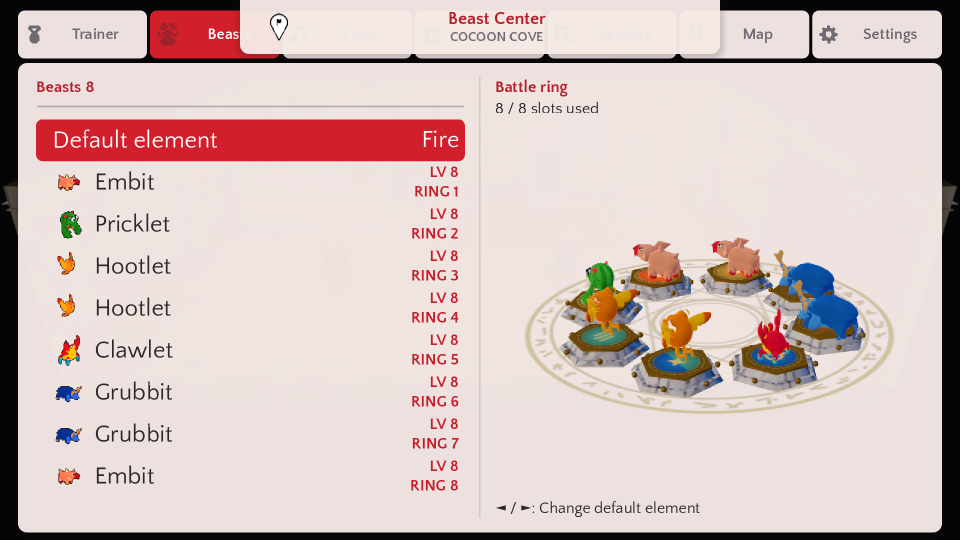
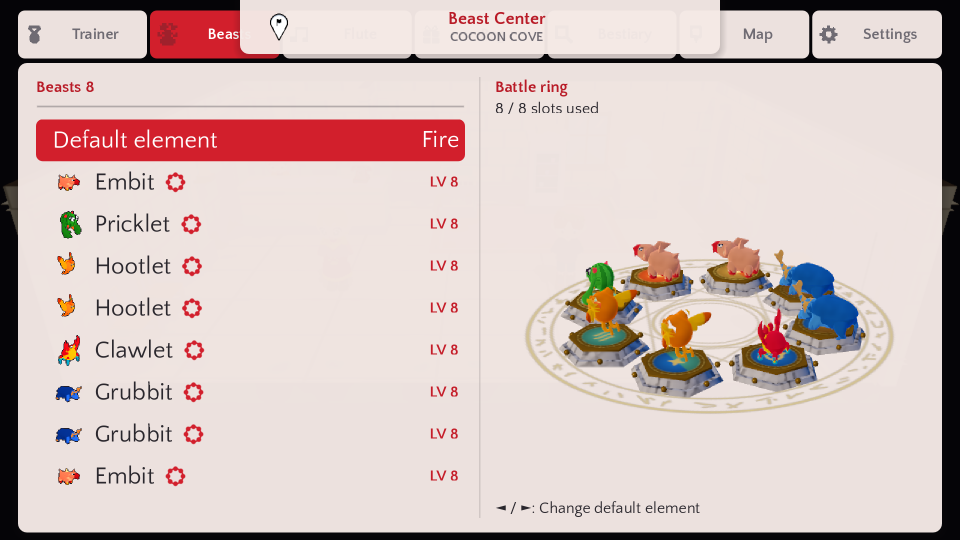
bugfixes added fishing animations

diff --git a/docs/visual_overhaul/006-scenery.md b/docs/visual_overhaul/006-scenery.md
@@ -1,0 +1,95 @@
+# 006 — batched scenery and visibility
+
+Engineering experiments completed 13 November 2026. Keep the existing **8×8 MultiMeshes**.
+No experimental occlusion, distance cutoff, rechunking or merged asset is enabled in gameplay.
+The adopted corrections preserve source LOD data when recentering and cover lily-pad shader displacement.
+No artwork, collision, movement, building fading, battle sightline hiding or lighting was changed by this step.
+
+## Adopted corrections
+
+`VoxelAssets._recentered()` preserves LOD thresholds/indices, surface names and the existing base channels
+and materials. The dedicated check covers 46 meshes / 134 LOD levels, including synthetic translated
+meshes with both renderer index widths. **The sampled shipped meshes are already centered**: affected
+mesh count is zero on Coastal Path, Cocoon Cove and Rue Royale. The native/phone LOD controls are A/A;
+this is defensive correctness, not a measured performance gain.
+
+Lily-pad swell reaches ±(1 + 0.45) × 0.045 = **0.06525 world units** after its shader cancels instance scale.
+The shared batch helper now forwards a **0.07-unit margin** to every pad chunk. Static batches keep their
+existing bounds. Pad controls have matching draws/primitives on Forward+, desktop Mobile, Compatibility,
+Web and actual phone. [Matched desktop views](../../build/shots/vo/006/compare_pads.png) show the same scene;
+water/pad animation phase varies. Local-model descriptions of a water-level change were not supported by
+the source: no water level or lighting was changed.
+
+## Experiment decisions
+
+All comparisons use control/candidate/control, fixed routes/settings and 240 samples per segment.
+Raw reports retain per-frame traces, p95/max, setting metadata, availability and bounds inventories.
+Timings below are medians; small changes within the control bracket do not establish a gain.
+
+| Experiment | Evidence and decision |
+|---|---|
+| 4×4 chunks | More submissions. Desktop Mobile Cove draws 233/272.5/233; phone 284/346/284. Reject. |
+| 16×16 chunks | Phone Coastal draws 382.5/271.5/382.5, GPU 30.943/31.477/30.373 ms; Cove 30.473/31.069/29.365 ms. No frame improvement; Web render CPU also increased. Keep 8×8. |
+| Engine occlusion | Conservative opaque source triangles shrunk 2%, actual 3D SubViewport enabled; faded/hidden parents disable their occluders and the hero ignores them. Phone Rue draws 266/263/266, render CPU 0.887/1.622/0.928 ms, GPU 30.061/30.097/29.179 ms. Desktop Forward+/Mobile/Compatibility also show small savings with CPU overhead. Reject. |
+| Decoration ranges | Only shadowless grass/flowers, nearest full-bounds hysteresis show below 22/hide above 26 units. Phone Coastal tick CPU 0.973/1.750/0.999 ms, unchanged draws; Cove GPU change lies within control drift. Reject this manual fallback. Engine-native alternatives were not exhaustively evaluated. |
+| Static Mesh Merger | 13 eligible Creole-house nodes, door kept separate; 32 surfaces → 11. Phone draws 50/26/50, GPU 3.819/3.834/4.401 ms. Position/UV/colour exact, but maximum normal error **0.241678** under nonuniform scale fails the geometry contract. Reject regardless of draw savings. |
+
+Merger source is pinned to `e0de5d302d12ec16161e43bb7afac2e79f0b5aeb`, with MIT license and
+reproduction fixture under `tools/experiments/006/StaticMeshMerger/` and `tools/debug/vo_mesh_merger.gd`.
+It is not an enabled editor plugin. Build cost was about 2.75 ms desktop / 22.256 ms phone; temporary
+source and result coexist during the fixture, so no production memory/load saving is claimed. No generated
+mesh collision was introduced; tile rules remain unchanged. Rejected candidates need no visual approval.
+
+## Platforms and accepted evidence
+
+Raw evidence is under `build/perf/vo/006/`, with native matched views in `build/shots/vo/006/`.
+Accepted native attempts: `mobile-lod-03`, `mobile-chunks4-01`, `mobile-pads-01`, `compat-pads-01`,
+`forward-pads-02`, `touch-pads-02`, `mobile-occlusion-03`, `compat-street-05`, `forward-street-05`,
+`mobile-distance-02`, `compat-distance-02`, `forward-distance-02`, `touch-distance-01`,
+`compat-merger-02`, `forward-merger-03`. Desktop Mobile is **desktop evidence**, not a phone proxy.
+Native 16×16 attempts lost focus and are excluded; complete phone/Web comparisons supply that evidence.
+Invalid/incomplete attempts remain on disk and must not be pooled with accepted traces.
+
+**Actual phone:** `build/perf/vo/006-suite/phone/`, razr 2024, Android Mobile renderer, Mid,
+1760×720, reported refresh 60 Hz, cap 60, VSync on. Three passes, **753.3 seconds**, zero reported
+problems/focus losses. Field medians ~33.3–33.7 ms (~30 fps); isolated fixture ~16.7 ms.
+Temperature samples peaked at 29.9°C; this does not establish sustained thermal headroom or 60 fps.
[1 lines of base64/hex data omitted]
+87 PNGs recovered to `build/shots/vo/006/phone-suite/`; raw private benchmark files are archived locally.
+Player package paths match before/after, cleanup succeeded and only temporary `com.rubycocoon.vo_perf`
+was uninstalled. Player saves/settings and lock settings were not changed.
+
+**Web:** `build/perf/vo/006/web_01/`, three validated passes, Compatibility, render size 1099×1080,
+browser viewport 890×875 CSS pixels. This is a narrow browser stress test, not landscape/1920-wide evidence.
+GPU queries are unavailable (zeros are not zero GPU cost). Console explicitly reports
+`Occlusion culling is disabled at build-time`: the requested true property is inert on this template.
+Web occlusion is **unsupported**, not a successful optimization test. The final console could not be
+re-read after the temporary browser tab closed; absence of post-report audio errors is not established.
+
+**Desktop field gate:** focused paced `field-02` has one 20.113 ms maximum, so that attempt misses the
+20 ms criterion. Frozen-pack `field-pack-01` runs VSync off, 240/240 focused samples on each of Cove,
+Rue and Cogsworth; maxima **3.864 / 3.486 / 3.278 ms** (720 total samples). It satisfies the unpaced
+render-headroom check, not a guarantee about presentation pacing, current concurrent artwork or phone fps.
+The pack is `build/web_perf_006_01/index.pck`; commands/logs/validation are retained alongside the report.
+
+## Bounds and verification limits
+
+Inventories cover 485/681/378 scenery batches and 1600/2426/1718 instances in Coastal/Cove/Rue.
+Their transformed-source union matches renderer AABBs; no static underbounds or >10% oversizing was found.
+Pad overlays show static versus swell bounds. The native Mobile occlusion-buffer capture is
+`build/shots/vo/006/occlusion-debug-02/pass_02/tidewater_occlusion_1_occluders_debug.png`;
+it shows the conservative building silhouettes. This short `verify=1` run is render-only evidence,
+not an accepted timing run (three samples per segment). Water already reserves 0.1 units; foliage has no vertex
+displacement, terrain holes are fragment-only. Existing dust/title-animation bounds were inspected in source.
+This is not an exhaustive swept animation audit of every effect. Renderer AABBs cannot be validated headless.
+Chunk LOD selection changes along with group culling, so primitive differences are not pure frustum savings.
+The occluder fixture covers initially built buildings on a short dense street; it is not a production dynamic
+occluder lifecycle implementation. No range system reaches battle props, edge seals, landmarks or interactables.
+Because ranges/merger/occlusion are rejected, production directed battle shots retain their existing behavior.
+
+Final current-checkout tests through `server.py`: **all 10 pass** (`scenery-lods`, the five scenery/merger
+smoke checks, `nature`, `walk`, `building-fade`, `maps-built`), 44 seconds. Earlier quick compilation/data
+checks also pass in nine seconds (`build/vo006-final-quick-resumed.json`). The local model supplied code indexing, a diff
+triage and first screenshot descriptions; all consequential claims were checked against source/numeric data.
+No combined optimization candidate survives: combined verification therefore covers the two correctness fixes.
+Further optimization remains measurement-driven; this step does not promise that every performance target is met.

diff --git a/README.md b/README.md
@@ -445,7 +445,7 @@ obstacles (driftwood, sand drifts, boulders, dust storms, ravines) still turn up
   - **The ring turns by itself** at the start of battle to a side with a standing middle beast (the preferred starting side if covered, otherwise the nearest; without a preference, the last facing), and when everyone on the facing side falls. Guided lessons keep their teaching formation and restricted choices. Fainted beasts on either trainer's ring remain lying on their pads; empty pads stay dim. Turning is shown by the actual ring and beasts moving.
   - **Action icons**: a round icon stands before the action's name on the chooser's bar (`scripts/battle/action_icons.gd`). An elemental attack's disc is its element's colour with the element's glyph (flame, drop, peaks, wind, ghost); a plain attack (and your weapons) is grey with claw marks; every action that isn't an attack is navy, with a glyph for what it does (Defend's shield, a heal's cross, chevrons up for a boost and down for a hex, Move's arrows, Items' bottle, the Flute's note, Watch's eye, Summon's star, Run's arrow). `--scene=action-icons --shot=...` shows the whole set.
   - **Weak and resistant targets**: while an attack is aimed, each target's bar shows a mark after its name: a red burst with "!" when it is weak to that attack (double damage), a slate shield when it resists it (an attack of its own element does three quarters). The top-centre bar says "Weak!" or "Resists" after the target's HP. Elemental bombs show the marks too; plain attacks, weapons and ghosts have none.
-  - **Targeting**: the chooser stays outlined and their bar names the target after the action, with a yellow arrow between them ("Bite ► Tadlet"; "► All" for a move that hits everyone). Each target is outlined too and gets its own white bar (name, level and HP) in its outline colour, tucked behind it the same way. A translucent yellow 3D arrow rises from behind the actor (so they stand in front of it) and arcs to the target. The top-centre bar says the action, the target with its HP, and what the move does. The 3D arrow is a slim, flat rectangular shaft with a long four-sided pyramid head, with translucent depth-tested faces; faint white chevrons on the stem point and scroll towards the target, while the head stays plain yellow in every gem. All-target moves draw one arrow to each target. ◄ ► aim; **tap a 3D beast once to aim, then again to confirm**; A also confirms. B returns to choosing the action. Move uses ▲ ▼ or a tap on a legal 3D pad (the pad gets a hull outline). Item and song targeting use the same arrows, outlines and target bars without a chooser bar. Guided battles retain their automatic target restrictions. (The outlined models are rendered a second time, alone, for their shapes only: `battle.gd` `front_texture`; `floating_hud.gd` draws the outlines from it and shows the 3D view through it over the bars' ends.)
+  - **Targeting**: the chooser stays outlined and their bar names the target after the action, with a yellow arrow between them ("Bite ► Tadlet"; "► All" for a move that hits everyone). Each target is outlined too and gets its own white bar (name, level and HP) in its outline colour, tucked behind it the same way. A translucent yellow 3D arrow rises from behind the actor (so they stand in front of it) and arcs to the target. The top-centre bar says the action, the target with its HP, and what the move does. The 3D arrow is a slim, flat rectangular shaft with a long four-sided pyramid head, with translucent depth-tested faces; white chevrons on the stem point and scroll towards the target, while the head stays plain yellow in every gem. All-target moves draw one arrow to each target. ◄ ► aim; **tap a 3D beast once to aim, then again to confirm**; A also confirms. B returns to choosing the action. Move uses ▲ ▼ or a tap on a legal 3D pad (the pad gets a hull outline). Item and song targeting use the same arrows, outlines and target bars without a chooser bar. Guided battles retain their automatic target restrictions. (The outlined models are rendered a second time, alone, for their shapes only: `battle.gd` `front_texture`; `floating_hud.gd` draws the outlines from it and shows the 3D view through it over the bars' ends.)
   - **While you choose your own action** (and aim it), every standing beast without a bar of its own shows its HP over its MP in a small square plate above its head ("HP 63" over "MP 31" on the left, each beside its gauge; the HP label turns yellow at a quarter of the beast's HP or less and red at a tenth or less), and each trainer (you, and a rival trainer) shows their shield points in the same kind of plate: a "SHIELD" label, then an orb per point. The plates use the top-centre bar's dark fill with no frame, fading out towards both sides, and a thin white line along the bottom that fades the same way. None of these show while a beast is choosing. **During actions** no bars or readouts appear at all: HP changes show only as damage numbers. Shield orbs appear beside a trainer only while targeted or for about a second after a hit, and bars keep clear of them. Battle messages and damage numbers retain their existing presentation.
   - **Touch**: the chooser's bar is drawn compact but taps as a full-height row (at least 80 logical units on touch, 56 on desktop); its left end (level and ◄) and right end (►) change the action and the middle confirms. Bars stay in the safe area and outside the d-pad and A/B clusters' enlarged exclusion zones: a bar that fits on neither side of its model rests nearby with a pointer to it. Keyboard, gamepad and direct taps share the command controller; taps cannot pass into world movement.
   - **Surroundings**: outdoor, fishing and arena battles sit inside one continuous textured surround, with a curved foot blended into the stage's own floor. Each of the 14 biome palettes has its own repeating mural, baked from the game's existing regional assets. Batched clusters of regional trees, shrubs and rocks frame all four perimeter corners and hide joins; desert clusters use boulders, fishing keeps trees on land and uses rock outcrops over water, and arenas use pillars and banners. Indoor battles retain their enclosed walls and ceiling, with tall corner columns, lower temple or tower props and colored practical lights concealing wall junctions. The mural uses mipmapped anisotropic filtering and scenery casts no shadows. There is no runtime artwork generation.

diff --git a/docs/visual_overhaul/runbook.md b/docs/visual_overhaul/runbook.md
@@ -264,12 +264,15 @@ Pixel diffs must be noise-only; a visible change stops for screenshot approval.
 ### 006 · P6: batched scenery
 **Execution checkpoints:** 006a (bounds, chunk sizing and preserved mesh LODs), 006b (engine occlusion),
 006c (decoration distance ranges), 006d (Static Mesh Merger and combined verification).
-Run in that order; parent 006 stays open until all four close. The loader's lost LODs were discovered during
+Record decisions in that order; independent experiments may collect evidence while another platform runs.
+Parent 006 stays open until all four close. The loader's missing LOD-copy path was discovered during
 006a. The sampled shipped assets already have centered origins and do not trigger that loader branch;
 the correction is defensive, not a measured speedup. The shader audit also found missing water-swell
 bounds on lily-pad batches. Finish matched evidence; require screenshot review only for visible changes.
 This split follows §5's clean-checkpoint rule; it does not waive any requirement below.
 **Approval:** numbers and screenshot review if visible. **Needs:** 008.
+**Result (13 November 2026):** [006 complete with explicit measurement limits](006-scenery.md).
+Keep 8×8; no experimental optimization adopted. LOD preservation and pad-bound correctness fixes retained.
 **Files:** the nature/scenery placement code in `scripts/world/` (find it with a grep for `MeshInstance3D.new()` in scenery code), `foliage.gdshader`.
 **Do:**
 - Per terrain chunk, draw repeated bushes, grass, flowers, rocks and small props as `MultiMeshInstance3D`, with per-instance colour or custom data for variation.
@@ -322,13 +325,15 @@ a `field-perf` run with no frame over 20 ms on desktop. Identify desktop Mobile-
 **Done when:** the `nature`, `walk`, `building-fade` and `maps-built` tests pass.
 
 ### 006a · P6a: bounds, chunks and scenery LOD preservation
-**Approval:** numbers and screenshots for the restored LODs. **Needs:** 008.
+**Approval:** numbers; screenshots if appearance changes. **Needs:** 008.
 **Do:** audit existing batch bounds against transformed source bounds; compare 4/8/16 chunk sizes with other
 settings fixed; preserve the source meshes' existing LOD thresholds and indices when recentering them.
 Keep collision, materials, per-instance transforms, building fades and terrain visibility unchanged.
 Cover the lily-pad shader's maximum 0.06525-unit world-space displacement after instance scaling.
-Compare original/restored/original LODs in matched Coastal Path, Cove and Rue Royale views on all three native
-renderers and the attached phone. Check base geometry/UV/normal/material identity and both index widths.
+Compare original/restored/original LODs in matched Coastal Path, Cove and Rue Royale views and the attached
+phone. If sampled assets do not enter the recenter branch, record that A/A result and exercise it synthetically;
+do not claim a renderer speedup. Check the pad-bound fix on all three native renderers and phone.
+Check base geometry/UV/normal/material identity and both index widths.
 **Evidence:** `build/perf/vo/006/`, `build/shots/vo/006/`, report `006a-scenery.md`.
 **Done when:** matched measurements and captures exist; quick, scenery-lods, vo-scenery, nature, walk,
 building-fade and maps-built pass, and any visible result is approved. Renderer bounds are unavailable headless.

diff --git a/docs/visual_overhaul/006a-scenery.md b/docs/visual_overhaul/006a-scenery.md
@@ -1,6 +1,7 @@
 # 006a — scenery bounds, chunk sizing and retained LODs
 
-Engineering checkpoint, 12 November 2026. **In progress**; parent 006 remains open.
+Engineering checkpoint, 12–13 November 2026. **Complete**; see the combined
+[006 report, decisions and limits](006-scenery.md) for final phone/Web evidence and verification.
 No chunks, distance cutoffs, engine occlusion setting or merged production assets have been adopted.
 
 ## Scope and corrections
@@ -30,7 +31,8 @@ maximum swell. The foliage shader does not displace vertices. Terrain dithering 
   no problems/focus losses, 30.9°C at each temperature sample. The player's package identity is preserved;
   temporary `com.rubycocoon.vo_perf` was uninstalled after recording.
 - `build/perf/vo/006/mobile-chunks4-01/`: accepted 8/4/8 comparison. The candidate increases draw and
-  render-CPU submissions, without consistent GPU benefit; keep 8×8 pending the other experiments.
+  render-CPU submissions, without consistent GPU benefit; keep 8×8. The complete phone/Web 16×16
+  comparisons likewise do not justify replacing the existing layout.
 - `build/perf/vo/006/mobile-pads-01/`, `compat-pads-01/`, `forward-pads-02/`: accepted pad-margin controls.
   Draws and primitives match; no material or geometry change. Desktop Mobile is desktop evidence.
 - Interrupted/superseded attempts retain their raw reports/logs and invalid markers. They are excluded from
@@ -39,7 +41,8 @@ maximum swell. The foliage shader does not displace vertices. Terrain dithering 
 
 The current bounds inventory compares each batch's rendered AABB with the union of its transformed mesh
 bounds: Coastal Path 485 batches / 1,600 instances; Cove 681 / 2,426; Rue Royale 378 / 1,718.
-No static underbounds or >10% oversized volumes were found. This is not an exhaustive animation/effect audit.
+No static underbounds or >10% oversizing were found (latest checks compare each axis).
+This is not an exhaustive animation/effect audit.
 Renderer bounds are unavailable headless; headless tests do not claim to check them.
 
 ## Reproduction and verification
@@ -50,9 +53,10 @@ experiments separate. Reports contain raw traces, effective settings and per-exp
 the Python reader validates traces/summaries, route and settings consistency, three controls and focus.
 Use isolated saves/preferences exactly as the runner supplies. See its command JSONs for accepted runs.
 
-Early checks through `server.py`: quick, nature, scenery-lods, vo-scenery, walk, building-fade and maps-built pass.
-Pad/occlusion/distance and isolated-merger headless smoke checks pass. Final checks and outstanding evidence
-are still required before closing this checkpoint or parent 006.
+Final checks through `server.py`: all ten focused checks pass in 44 seconds; quick's four checks pass
+in nine seconds. See `build/vo006-final-resumed.json` and `build/vo006-final-quick-resumed.json`.
+Matched native pad-margin controls cover all three renderers; affected recentered mesh count is zero,
+so repeating that A/A on every renderer cannot demonstrate an LOD gain. Synthetic checks exercise the branch.
 
 Local-model help: a focused code index and a first-pass typo/unused-variable diff triage. Source inspection
 confirmed the useful index; correctness, LOD buffers and bounds calculations were reviewed directly.

diff --git a/docs/visual_overhaul/progress.md b/docs/visual_overhaul/progress.md
@@ -4,7 +4,7 @@ Statuses: `todo`, `in progress`, `waiting for approval`, `approved` (visual step
 
 | Step | Status | Date | Evidence | Notes |
 |---|---|---|---|---|
-| 006 (P6), checkpoints 006a–006d | in progress | 2026-11-12 | `build/perf/vo/006/`, `build/shots/vo/006/`, `build/perf/vo/006a/phone/` | Existing 8x8 batches retained during isolated experiments. LOD copying was missing in the recenter branch, but sampled shipped assets do not enter it; no speedup claimed. Pad batches now cover shader swell with a 0.07-unit margin. Early quick + six focused checks and experiment smoke checks pass; final verification pending. Focus-interrupted desktop attempts are invalid, not accepted timing evidence. Separate phone LOD control run complete; temporary package removed. Occlusion, ranges and pinned merger remain experiments, not gameplay settings. |
+| 006 (P6), checkpoints 006a–006d | complete, limits recorded | 2026-11-13 | [Report](006-scenery.md), `build/perf/vo/006/`, `build/perf/vo/006-suite/phone/`, `build/shots/vo/006/` | Keep 8x8 batches; reject tested rechunking, occlusion, manual ranges and merger. Preserve recentered LOD data defensively (sampled affected count zero), add 0.07-unit pad swell margin. Three phone passes / 753.3 s, zero problems/focus losses; ~30 fps field, not 60. Web complete; build disables occlusion, GPU timing unavailable. Focused unpaced desktop pack maxima 3.864/3.486/3.278 ms; paced attempt had 20.113 ms maximum. All 10 focused + four quick checks pass. Temporary phone package removed; player identity unchanged. No adopted visual change. |
 | Setup: audit, decisions, rules updated | done | 2026-11-12 | audit.md | AGENTS.md, README Art and memory now point to the Animal Crossing-inspired direction |
 | 001 (P1) | done | 2026-11-12 | [Report](001-performance.md), `build/perf/vo/baseline-desktop/`, `build/shots/vo/001/` | Eight accepted runs; largest median difference 0.123% (limit 5%); 16 command checks, final quick and performance passed. Forced screen input for the touch fixture; fixed freed deferred-node callbacks. Existing shutdown warnings remain; game visuals unchanged. |
 | 002 (P2) | done | 2026-11-12 | [Report](002-phone.md), `ledger/perf.md`, `build/perf/vo/baseline-phone/` | Real razr 2024, 720p/Mid: seven loops / 993.36 s; medians ~29–30 fps; battery 30.7–31.9°C. No focus losses or benchmark errors. 339.37 s temperature gap documented. Thread-safe pad delivery; 14 cached images unchanged. |

diff --git a/docs/visual_overhaul/ledger/perf.md b/docs/visual_overhaul/ledger/perf.md
@@ -132,3 +132,16 @@ Film lighting retained; no all-shadow removal. Raw traces, p95/max and nominal p
 `build/perf/vo/008b/{mobile-01,phone}/{report.json,validated-lighting.json,lighting.md}`.
 Original package identity and export preset bytes match; benchmark removed. Parent 008 complete;
 next 006. Target-device sustained acceptance and refresh-selection diagnosis remain open.
+
+### Batched scenery / visibility (006, 13 November 2026)
+
+[Decisions, evidence and limitations](../006-scenery.md). Existing 8×8 MultiMeshes retained.
+4×4 raises submissions; phone/Web 16×16 reduces draws without a reliable frame benefit.
+Conservative engine occlusion adds render CPU for small savings; Web template disables it at build time.
+Manual grass/flower bounds hysteresis adds update cost. Pinned merger reduces draws but fails transformed
+normal preservation (max error 0.241678). None adopted. Recentered LOD copying is corrected defensively
+(zero affected sampled assets); pad batches gain a 0.07-unit swell margin, matching draws/primitives.
+Phone 1760×720/Mid: 753.3 s, three passes, zero problems/focus losses, ~30 fps field, peak sampled 29.9°C.
+Unpaced focused desktop frozen-pack field maxima 3.864/3.486/3.278 ms; paced control max 20.113 ms.
+Do not treat desktop headroom as a phone/presentation guarantee. All 10 focused and four quick checks pass;
+temporary benchmark removed and player package identity preserved. Next 007.

diff --git a/docs/visual_overhaul/README.md b/docs/visual_overhaul/README.md
@@ -26,7 +26,10 @@ The overhaul aims to make the game cozy, beautiful, clean and fast, and to add t
 
 ## Next step
 
-**006: batched scenery and visibility experiments.** [008b's approved indoor integration](008b-integration.md)
+**007: alpha and overdraw.** [006's batched scenery experiments](006-scenery.md) are complete:
+keep 8×8 batches, preserve recentered LOD data and cover pad swell; no experimental visual change adopted.
+Phone/Web results and remaining performance limits are recorded in that report.
+[008b's approved indoor integration](008b-integration.md)
 and film cost experiment are complete; films retain their lighting. See [Claude's returned evidence](claude-008b-cost-return.md).
 [008a diagnosis](008-shadow-budget.md) retains its desktop/observation limits.
 010b's missing [phone evidence](010b-phone-resolve.md) is complete;
